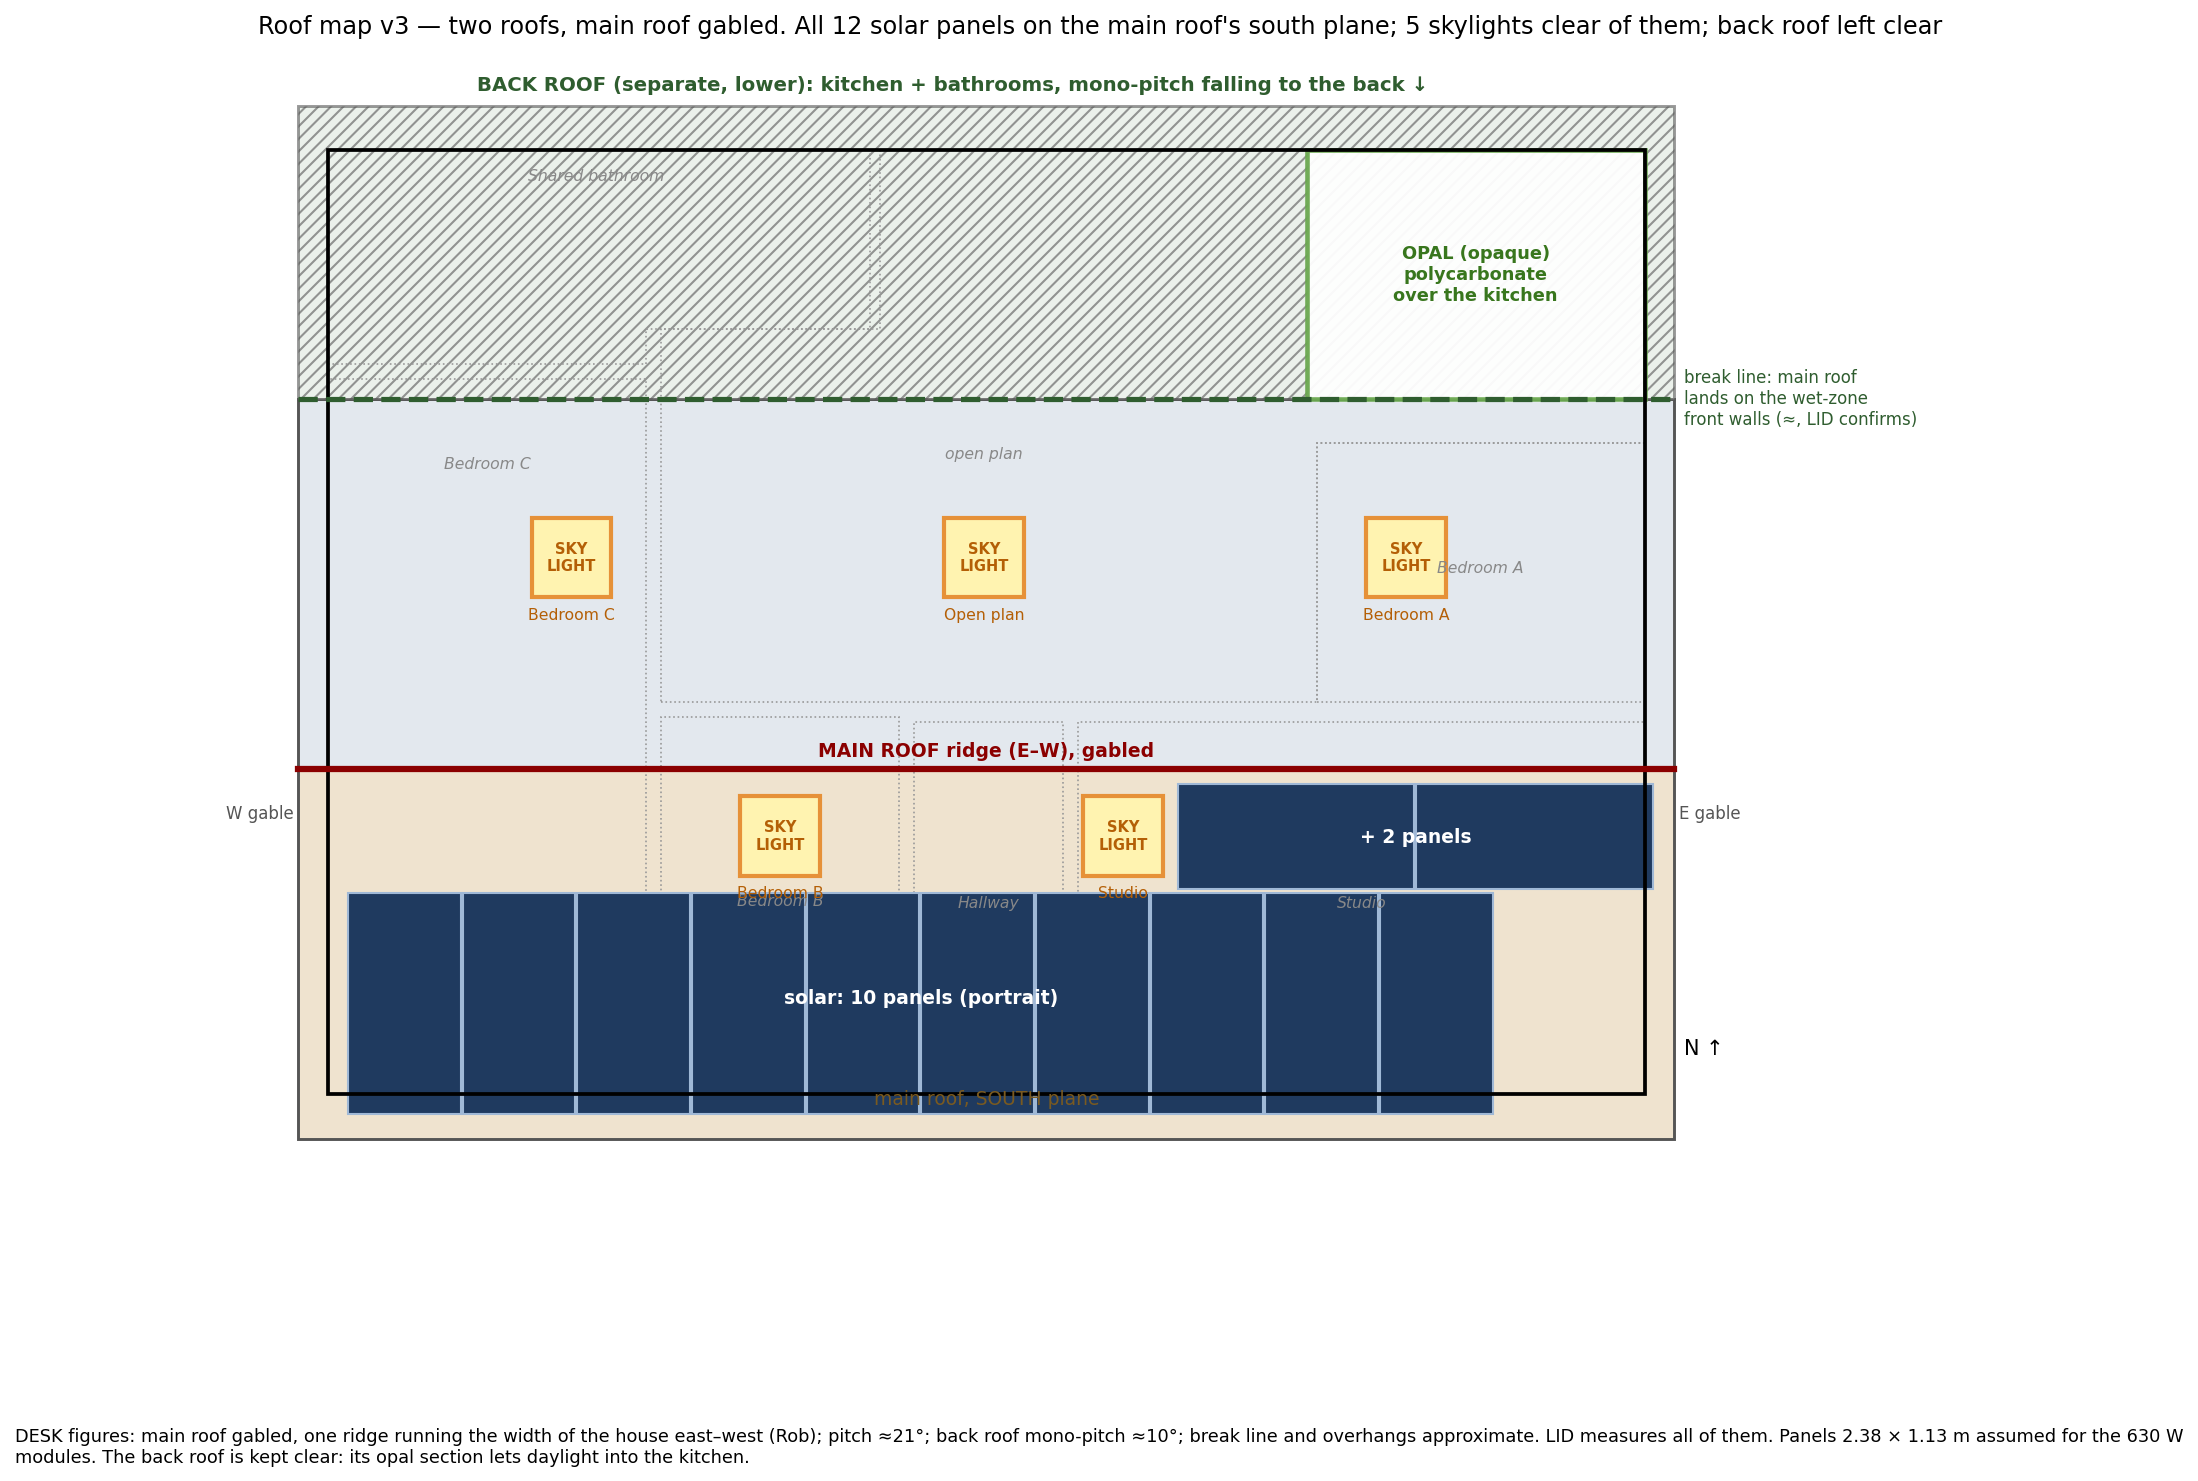
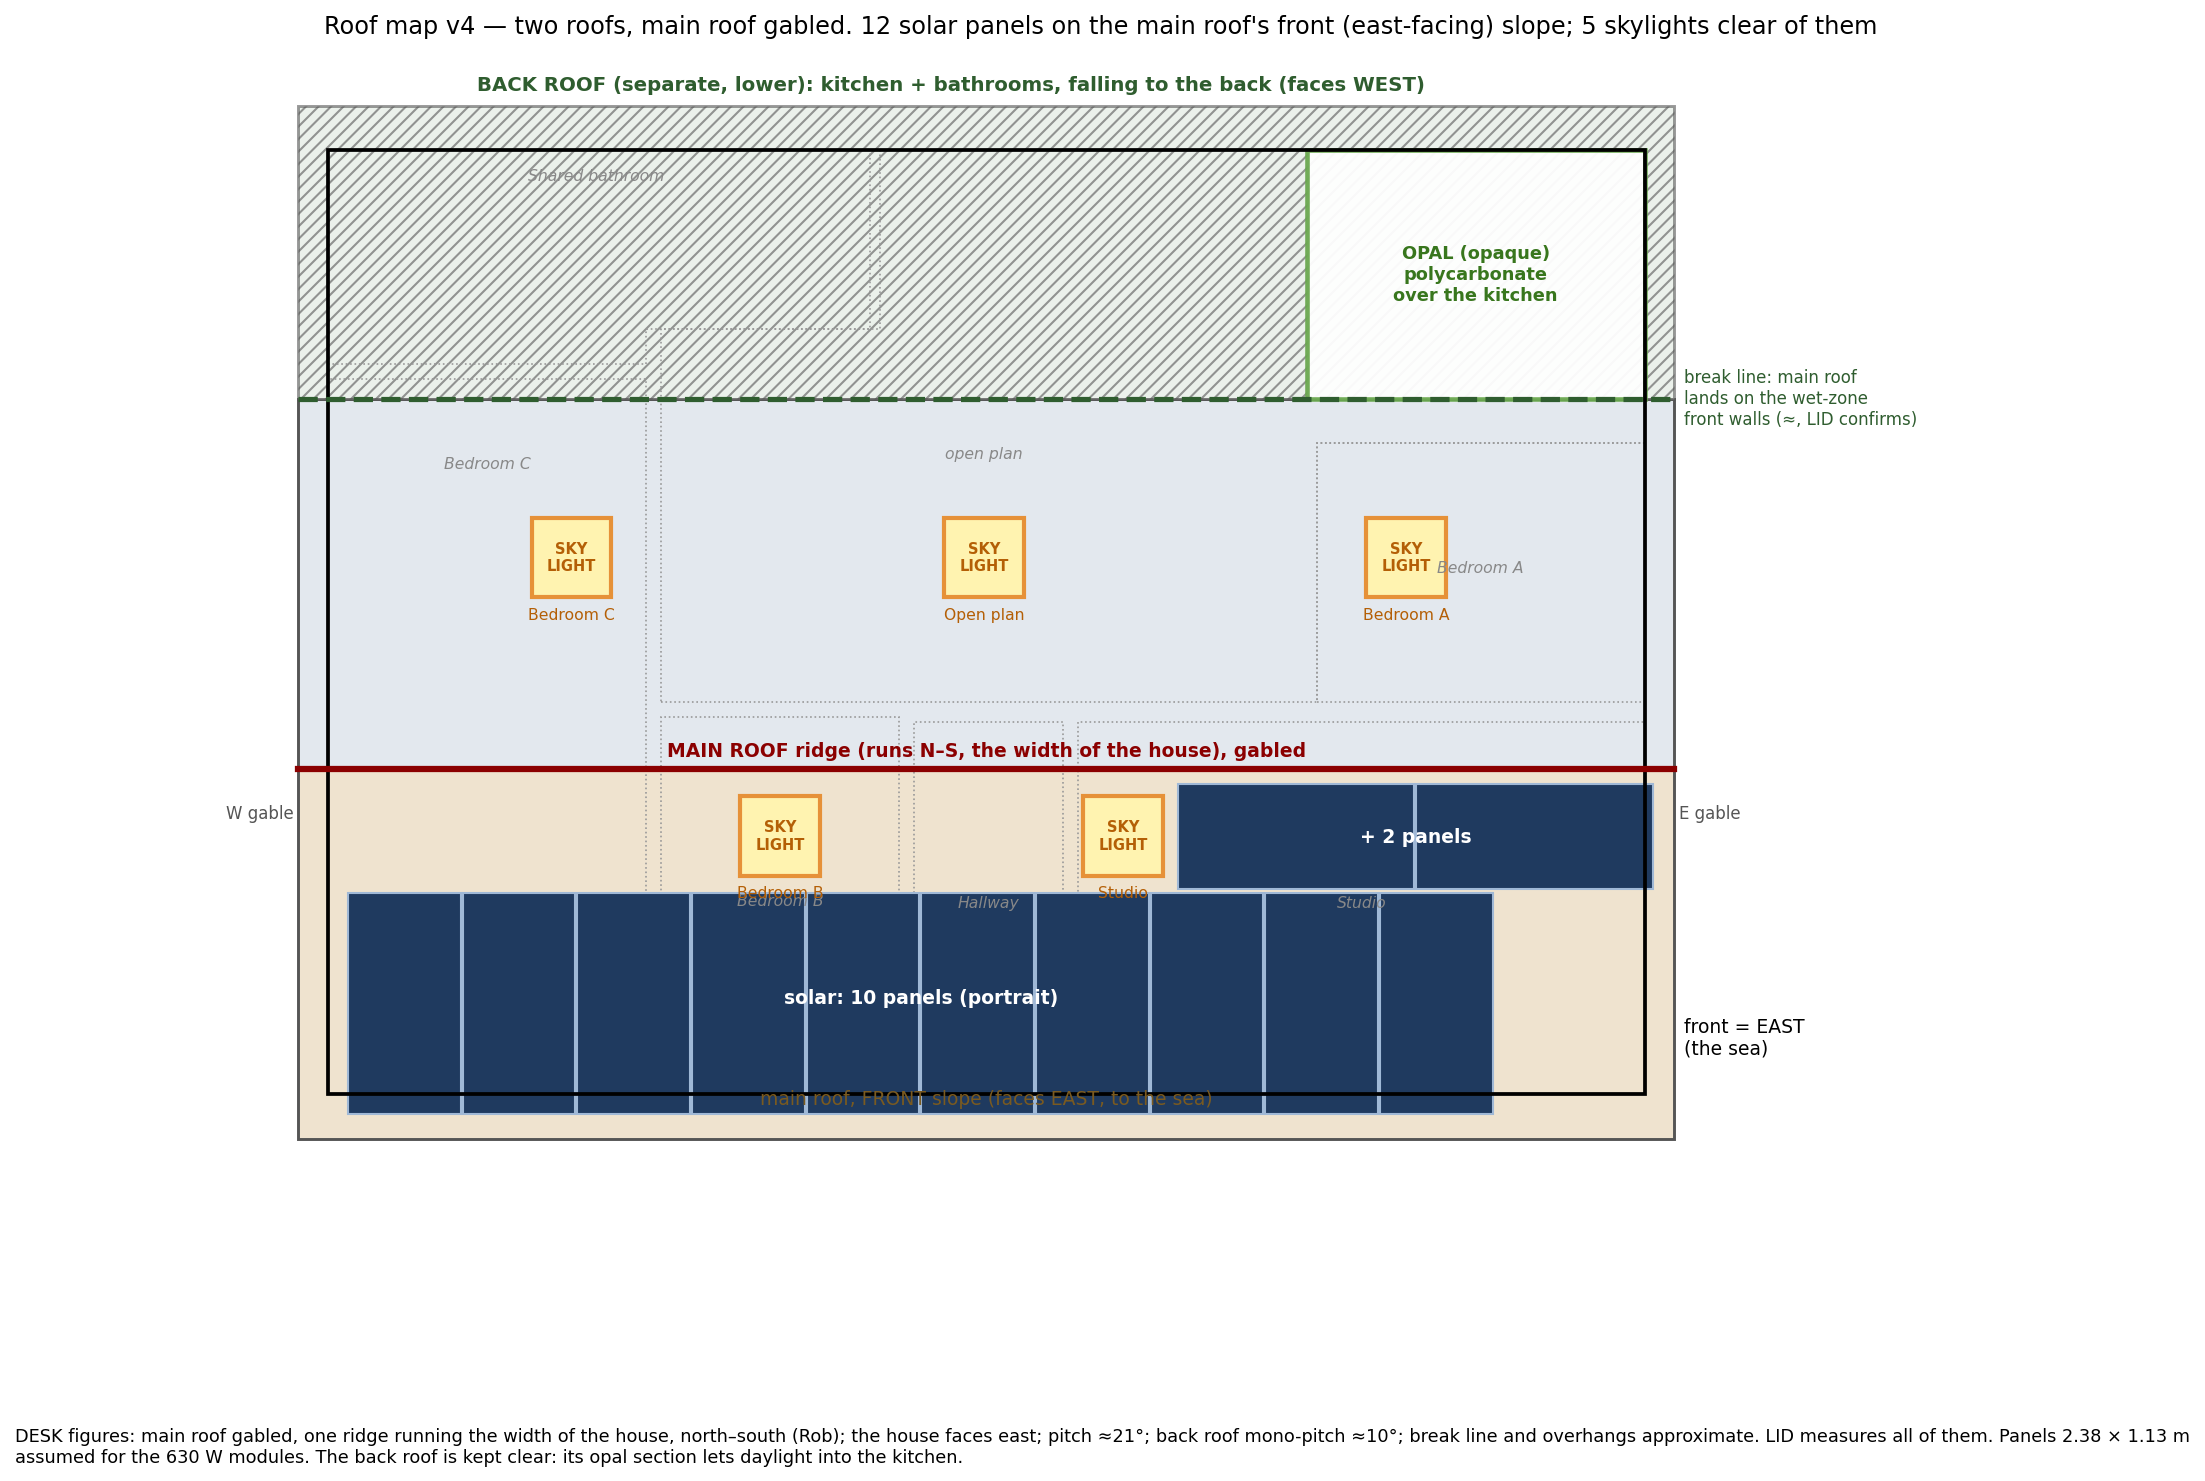
House page: roof compass corrected (house faces east; ridge runs north-south)
Claude-Session: https://claude.ai/code/session_01Da7DVLUS4eTKAPdJEftquQ

diff --git a/house/index.html b/house/index.html
@@ -143,10 +143,10 @@ ul.plain{padding-left:20px;margin:0 0 16px} ul.plain li{margin-bottom:6px;max-wi
 
 <section>
   <h2>The roof</h2>
-  <p>There are in effect two roofs. The main roof is gabled, with a single ridge running the width of the house, east to west. A separate, lower roof covers the kitchen and bathroom at the back; part of it, over the kitchen, is opal polycarbonate, which lets daylight through.</p>
+  <p>There are in effect two roofs. The main roof is gabled, with a single ridge running the width of the house. The house faces the sea to the east, so one slope faces east and the other west. A separate, lower roof covers the kitchen and bathroom at the back; part of it, over the kitchen, is opal polycarbonate, which lets daylight through.</p>
   <ul class="plain">
     <li>Five skylights: one each in Bedrooms A, B and C, the studio and the open-plan room.</li>
-    <li>Twelve solar panels, all on the sunny front slope of the main roof: ten in a row along the eave and two above them at the east end, clear of the skylights. The back roof is left clear.</li>
+    <li>Twelve solar panels on the main roof's front slope, which faces east: ten in a row along the eave and two above them, clear of the skylights.</li>
   </ul>
   <figure><img src="media/roof-map.png" alt="Roof map" loading="lazy"><figcaption>The roof map: skylights, solar panels and the opal section.</figcaption></figure>
   <figure><img src="media/roof-3d.jpg" alt="3D view of the roof" loading="lazy"><figcaption>The roof in the 3D model.</figcaption></figure>
